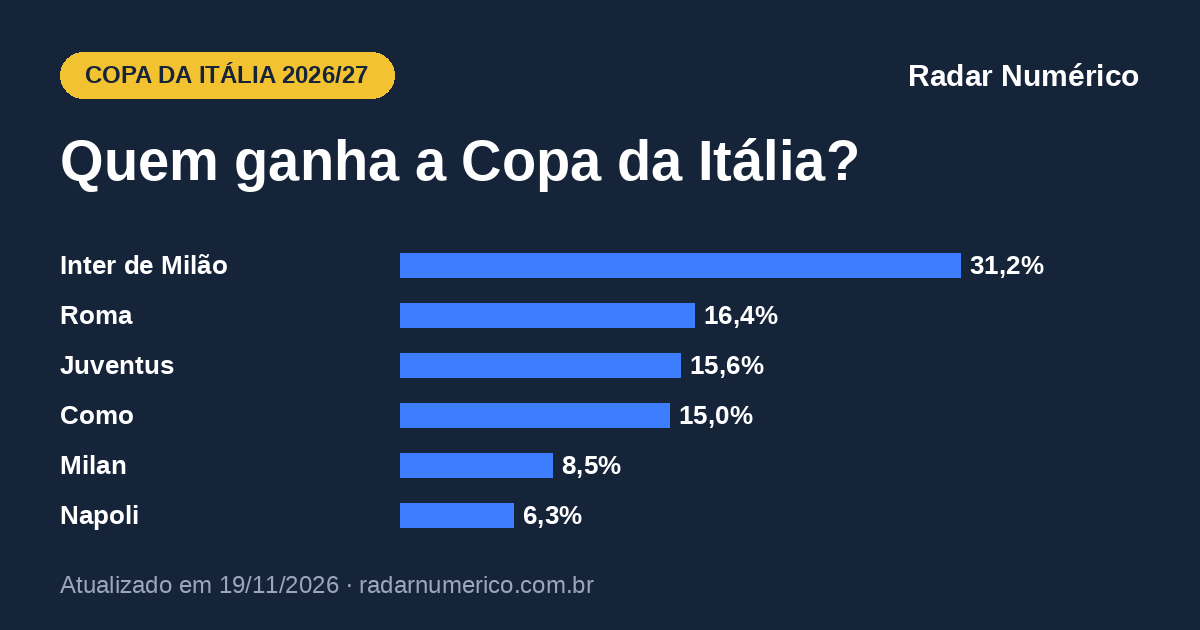
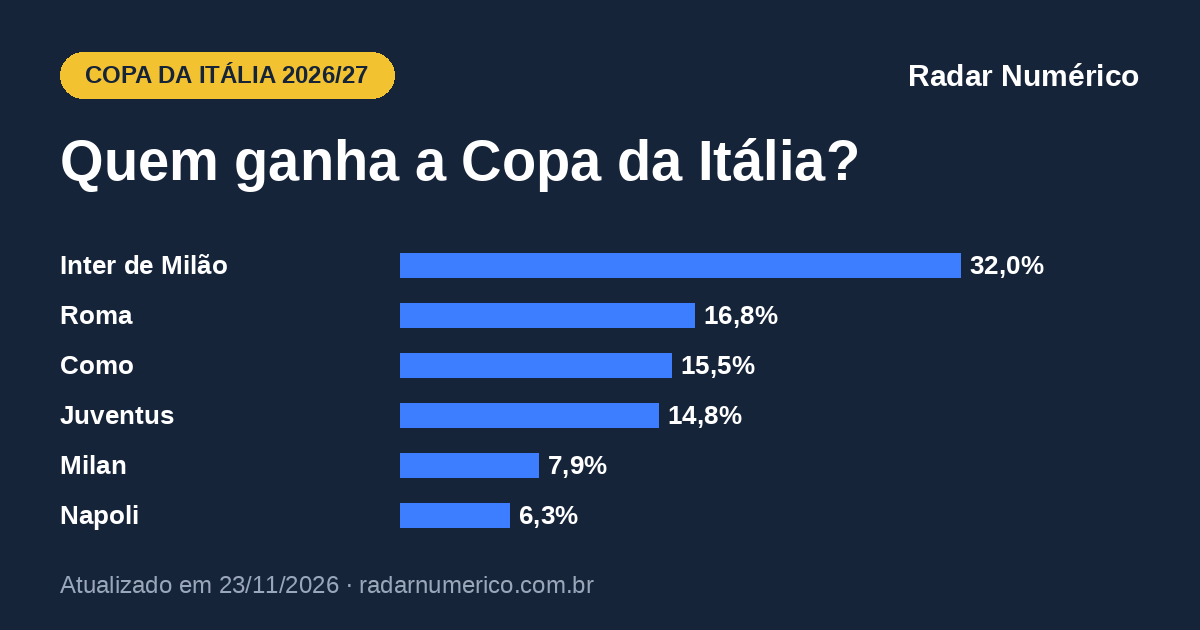
Ranking, ligas e copas europeias: atualização semanal 2026-11-23 - futebol/copa-da-italia
Claude-Session: https://claude.ai/code/session_014c9M3oryqlsr8hzscwb7oa

diff --git a/futebol/copa-da-italia/index.html b/futebol/copa-da-italia/index.html
@@ -13,11 +13,11 @@
 <meta property="og:title" content="Copa da Itália 2026/27: chances de título de cada time">
 <meta property="og:description" content="Probabilidades da Copa da Itália 2026/27: chance de cada time chegar às quartas, à semifinal, à final e de ser campeão.">
 <meta property="og:url" content="https://radarnumerico.com.br/futebol/copa-da-italia/">
-<meta property="og:image" content="https://radarnumerico.com.br/futebol/copa-da-italia/og.png?v=202611190848">
+<meta property="og:image" content="https://radarnumerico.com.br/futebol/copa-da-italia/og.png?v=202611230848">
 <meta property="og:image:width" content="1200">
 <meta property="og:image:height" content="630">
 <meta name="twitter:card" content="summary_large_image">
-<script type="application/ld+json">{"@context": "https://schema.org", "@graph": [{"@type": "WebPage", "@id": "https://radarnumerico.com.br/futebol/copa-da-italia/", "url": "https://radarnumerico.com.br/futebol/copa-da-italia/", "name": "Copa da Itália 2026/27: chances de título de cada time", "description": "Probabilidades da Copa da Itália 2026/27: chance de cada time chegar às quartas, à semifinal, à final e de ser campeão.", "inLanguage": "pt-BR", "dateModified": "2026-11-19T08:48:00-03:00", "isPartOf": {"@type": "WebSite", "name": "Radar Numérico", "url": "https://radarnumerico.com.br/"}, "about": {"@type": "Thing", "name": "Copa da Itália 2026/27"}}, {"@type": "BreadcrumbList", "itemListElement": [{"@type": "ListItem", "position": 1, "name": "Radar Numérico", "item": "https://radarnumerico.com.br/"}, {"@type": "ListItem", "position": 2, "name": "Copa da Itália 2026/27: probabilidades", "item": "https://radarnumerico.com.br/futebol/copa-da-italia/"}]}]}</script>
+<script type="application/ld+json">{"@context": "https://schema.org", "@graph": [{"@type": "WebPage", "@id": "https://radarnumerico.com.br/futebol/copa-da-italia/", "url": "https://radarnumerico.com.br/futebol/copa-da-italia/", "name": "Copa da Itália 2026/27: chances de título de cada time", "description": "Probabilidades da Copa da Itália 2026/27: chance de cada time chegar às quartas, à semifinal, à final e de ser campeão.", "inLanguage": "pt-BR", "dateModified": "2026-11-23T08:48:00-03:00", "isPartOf": {"@type": "WebSite", "name": "Radar Numérico", "url": "https://radarnumerico.com.br/"}, "about": {"@type": "Thing", "name": "Copa da Itália 2026/27"}}, {"@type": "BreadcrumbList", "itemListElement": [{"@type": "ListItem", "position": 1, "name": "Radar Numérico", "item": "https://radarnumerico.com.br/"}, {"@type": "ListItem", "position": 2, "name": "Copa da Itália 2026/27: probabilidades", "item": "https://radarnumerico.com.br/futebol/copa-da-italia/"}]}]}</script>
 <link rel="icon" type="image/png" href="/favicon.png">
 <link rel="apple-touch-icon" href="/apple-touch-icon.png">
 <link rel="preconnect" href="https://fonts.googleapis.com">
@@ -441,8 +441,8 @@ table.mzf td.bc{color:#fff}
 <header class="pg">
   <div class="kicker">Futebol · Itália</div>
   <h1>Copa da Itália 2026/27: chances de título de cada time</h1>
-  <div class="selo" id="selo"><span>Atualizado em <b>19/11/2026 às 08h48</b></span><span>fase atual: <b>Oitavas</b></span><span>16 times vivos</span></div>
-  <p class="lede">O favorito ao título da Copa da Itália é o <b>Inter de Milão</b>, com 31,2%, seguido por Roma (16,4%) e Juventus (15,6%). Calculamos, para os 16 times vivos, a chance de chegar a cada fase, simulando os jogos já marcados e o sorteio das fases seguintes 20 mil vezes. O campeão ganha vaga na Liga Europa.</p>
+  <div class="selo" id="selo"><span>Atualizado em <b>23/11/2026 às 08h48</b></span><span>fase atual: <b>Oitavas</b></span><span>16 times vivos</span></div>
+  <p class="lede">O favorito ao título da Copa da Itália é o <b>Inter de Milão</b>, com 32,0%, seguido por Roma (16,8%) e Como (15,5%). Calculamos, para os 16 times vivos, a chance de chegar a cada fase, simulando os jogos já marcados e o sorteio das fases seguintes 20 mil vezes. O campeão ganha vaga na Liga Europa.</p>
 </header>
 
 <section class="g" id="s-trilha">
@@ -500,7 +500,7 @@ table.mzf td.bc{color:#fff}
 
 <div class="metod">
   <p class="marca">Radar Numérico</p>
-  <p id="rodape">Probabilidades da Copa da Itália 2026/27 atualizadas em 19/11/2026 às 08h48.</p>
+  <p id="rodape">Probabilidades da Copa da Itália 2026/27 atualizadas em 23/11/2026 às 08h48.</p>
   <p>Como calculamos: um algoritmo desenvolvido pelo economista Augusto Pellegrini estima a força de cada time a partir das cotações de mercado de todos os seus jogos recentes, em todas as competições. Simulamos a copa 20 mil vezes: os jogos já marcados e, depois, o sorteio de cada fase. Empate em jogo único vai à prorrogação e aos pênaltis. Fonte: Radar Numérico.</p>
 </div>
 </main>
@@ -509,7 +509,7 @@ table.mzf td.bc{color:#fff}
 <div id="tip" role="tooltip"></div>
 <div id="toast" role="status"></div>
 <script>
-const D = {"slug":"copa-da-italia","nome":"Copa da Itália","gerado_em":"2026-11-19T08:48","tams":[8,4,2,1],"rot":["Quartas","Semifinal","Final","Campeão"],"atual_rot":"Oitavas","cai_antes":"Cai nas oitavas","n_vivos":16,"times":{"Udinese":{"id":"3202","fases":[0.1844,0.0493,0.0043,0.0003],"campeao":0.0003,"forca":43.8,"cab":false},"Verona":{"id":"3204","fases":[0.0759,0.0121,0.0013,0.0001],"campeao":0.0001,"forca":39.0,"cab":false},"Bologna":{"id":"3205","fases":[0.8384,0.2119,0.0491,0.0162],"campeao":0.0162,"forca":50.9,"cab":false},"Como":{"id":"3280","fases":[0.9093,0.541,0.2732,0.1502],"campeao":0.1502,"forca":61.8,"cab":false},"Cremonese":{"id":"3281","fases":[0.0907,0.0197,0.0019,0.0003],"campeao":0.0003,"forca":41.9,"cab":false},"Monza":{"id":"3288","fases":[0.115,0.0221,0.0019,0.0003],"campeao":0.0003,"forca":42.0,"cab":false},"Palermo":{"id":"1248","fases":[0.1616,0.0169,0.0007,0.0001],"campeao":0.0001,"forca":37.6,"cab":false},"Atalanta":{"id":"3180","fases":[0.8156,0.4014,0.1288,0.0434],"campeao":0.0434,"forca":55.3,"cab":false},"Fiorentina":{"id":"3184","fases":[0.2654,0.1221,0.0265,0.007],"campeao":0.007,"forca":51.1,"cab":false},"Genoa":{"id":"3186","fases":[0.0839,0.0347,0.0042,0.0008],"campeao":0.0008,"forca":44.7,"cab":false},"Inter de Milão":{"id":"3187","fases":[0.9161,0.7365,0.492,0.3119],"campeao":0.3119,"forca":65.4,"cab":false},"Juventus":{"id":"3190","fases":[0.8652,0.46,0.3237,0.1562],"campeao":0.1562,"forca":61.4,"cab":false},"Milan":{"id":"3193","fases":[0.885,0.4173,0.1771,0.0848],"campeao":0.0848,"forca":59.0,"cab":false},"Napoli":{"id":"3194","fases":[0.7346,0.4271,0.1623,0.0631],"campeao":0.0631,"forca":57.3,"cab":false},"Roma":{"id":"3197","fases":[0.9242,0.4995,0.3471,0.164],"campeao":0.164,"forca":61.3,"cab":false},"Sassuolo":{"id":"3199","fases":[0.1348,0.0284,0.006,0.0013],"campeao":0.0013,"forca":45.8,"cab":false}},"ordem":["Inter de Milão","Roma","Juventus","Como","Milan","Napoli","Atalanta","Bologna","Fiorentina","Sassuolo","Genoa","Udinese","Monza","Cremonese","Verona","Palermo"],"confrontos":[{"m":"Inter de Milão","v":"Genoa","pm":0.9161,"vm":0.7462,"e":0.1832,"vv":0.0706},{"m":"Bologna","v":"Palermo","pm":0.8384,"vm":0.652,"e":0.2256,"vv":0.1225},{"m":"Milan","v":"Monza","pm":0.885,"vm":0.7014,"e":0.2048,"vv":0.0938},{"m":"Como","v":"Cremonese","pm":0.9093,"vm":0.7372,"e":0.1877,"vv":0.075},{"m":"Roma","v":"Verona","pm":0.9242,"vm":0.7633,"e":0.1743,"vv":0.0624},{"m":"Juventus","v":"Sassuolo","pm":0.8652,"vm":0.6835,"e":0.2127,"vv":0.1039},{"m":"Atalanta","v":"Udinese","pm":0.8156,"vm":0.6259,"e":0.2353,"vv":0.1388},{"m":"Napoli","v":"Fiorentina","pm":0.7346,"vm":0.5425,"e":0.2608,"vv":0.1967}],"finais":[{"a":"Inter de Milão","b":"Roma","p":0.1704,"pa":0.5929},{"a":"Inter de Milão","b":"Juventus","p":0.16,"pa":0.5928},{"a":"Roma","b":"Como","p":0.0943,"pa":0.4783},{"a":"Juventus","b":"Como","p":0.0874,"pa":0.4991},{"a":"Inter de Milão","b":"Napoli","p":0.0789,"pa":0.6806},{"a":"Atalanta","b":"Inter de Milão","p":0.0638,"pa":0.2627}],"outros":0.0,"matriz":{"tipo":"lados","linhas":[["Inter de Milão",0.492],["Como",0.2732],["Milan",0.1771],["Bologna",0.0491],["Genoa",0.0042],["Cremonese",0.0019]],"colunas":[["Roma",0.3471],["Juventus",0.3237],["Napoli",0.1623],["Atalanta",0.1288],["Fiorentina",0.0265],["Sassuolo",0.006]],"cel":[[0.1704,0.16,0.0789,0.0638,0.0131,0.003],[0.0943,0.0874,0.0455,0.036,0.0074,0.0012],[0.0634,0.0566,0.0282,0.022,0.0046,0.0014],[0.0167,0.0159,0.0086,0.0061,0.0013,0.0003],[0.0011,0.0018,0.0005,0.0006,0.0,0.0],[0.0006,0.0009,0.0002,0.0001,0.0,0.0]]},"chave":{"fases":["Oitavas","Quartas","Semifinal","Final"],"jogos":[["Inter de Milão","Genoa"],["Bologna","Palermo"],["Milan","Monza"],["Como","Cremonese"],["Roma","Verona"],["Juventus","Sassuolo"],["Atalanta","Udinese"],["Napoli","Fiorentina"]],"atual":true,"p":{"vagas":[[[[["Inter de Milão",0.9161],["Genoa",0.0839]],[["Bologna",0.8384],["Palermo",0.1616]]],[[["Milan",0.885],["Monza",0.115]],[["Como",0.9093],["Cremonese",0.0907]]],[[["Roma",0.9242],["Verona",0.0759]],[["Juventus",0.8652],["Sassuolo",0.1348]]],[[["Atalanta",0.8156],["Udinese",0.1844]],[["Napoli",0.7346],["Fiorentina",0.2654]]]],[[[["Inter de Milão",0.7365],["Bologna",0.2119],["Genoa",0.0347],["Palermo",0.0169]],[["Como",0.541],["Milan",0.4173],["Monza",0.0221],["Cremonese",0.0197]]],[[["Roma",0.4995],["Juventus",0.46],["Sassuolo",0.0284],["Verona",0.0121]],[["Napoli",0.4271],["Atalanta",0.4014],["Fiorentina",0.1221],["Udinese",0.0493]]]],[[[["Inter de Milão",0.492],["Como",0.2732],["Milan",0.1771],["Bologna",0.0491],["Genoa",0.0042],["Cremonese",0.0019],["Monza",0.0019],["Palermo",0.0007]],[["Roma",0.3471],["Juventus",0.3237],["Napoli",0.1623],["Atalanta",0.1288],["Fiorentina",0.0265],["Sassuolo",0.006],["Udinese",0.0043],["Verona",0.0013]]]]],"passa":[[0.9161,0.0839],[0.8384,0.1616],[0.885,0.115],[0.9093,0.0907],[0.9242,0.0759],[0.8652,0.1348],[0.8156,0.1844],[0.7346,0.2654]],"campeao":[["Inter de Milão",0.3119],["Roma",0.164],["Juventus",0.1562],["Como",0.1502],["Milan",0.0848],["Napoli",0.0631],["Atalanta",0.0434],["Bologna",0.0162],["Fiorentina",0.007],["Sassuolo",0.0013],["Genoa",0.0008],["Cremonese",0.0003],["Monza",0.0003],["Udinese",0.0003],["Palermo",0.0001],["Verona",0.0001]]},"fixa":true},"SIGLA":{"Udinese":"UDI","Verona":"VER","Bologna":"BOL","Como":"COM","Cremonese":"CRE","Monza":"MON","Palermo":"PAL","Atalanta":"ATA","Fiorentina":"FIO","Genoa":"GEN","Inter de Milão":"INT","Juventus":"JUV","Milan":"MIL","Napoli":"NAP","Roma":"ROM","Sassuolo":"SAS"},"SLUG":{"Udinese":"udinese","Verona":"verona","Bologna":"bologna","Como":"como","Cremonese":"cremonese","Monza":"ssd-monza","Palermo":"palermo","Atalanta":"atalanta","Fiorentina":"fiorentina","Genoa":"genoa","Inter de Milão":"inter-de-milao","Juventus":"juventus","Milan":"milan","Napoli":"napoli","Roma":"roma","Sassuolo":"sassuolo"},"CORES":{"Udinese":["#3EA6DD","#FFFFFF"],"Verona":["#5B2C83","#FFFFFF"],"Bologna":["#111111","#FFFFFF"],"Como":["#1B4D9B","#FFFFFF"],"Cremonese":["#5B2C83","#FFFFFF"],"Monza":["#3EA6DD","#FFFFFF"],"Palermo":["#16243A","#FFFFFF"],"Atalanta":["#111111","#FFFFFF"],"Fiorentina":["#5B2C83","#FFFFFF"],"Genoa":["#16243A","#FFFFFF"],"Inter de Milão":["#0068A8","#111111"],"Juventus":["#E35205","#FFFFFF"],"Milan":["#3EA6DD","#FFFFFF"],"Napoli":["#12A0D7","#FFFFFF"],"Roma":["#8E1F2F","#F0BC42"],"Sassuolo":["#3EA6DD","#FFFFFF"]},"vaga":"Liga Europa","liga":"serie-a-italiana","liga_nome":"Série A italiana","nota_fase":"Os oito primeiros da Série A de 2025/26 entram nas oitavas. Jogos únicos até as quartas; semifinal em ida e volta.","final":"Final em Roma, no Estádio Olímpico.","ultimo_jogo":{"data":"2026-09-15","hora":"16:00","m":"Fiorentina","v":"Pisa","gm":3,"gv":0,"rodada":"Round Of 32"}};
+const D = {"slug":"copa-da-italia","nome":"Copa da Itália","gerado_em":"2026-11-23T08:48","tams":[8,4,2,1],"rot":["Quartas","Semifinal","Final","Campeão"],"atual_rot":"Oitavas","cai_antes":"Cai nas oitavas","n_vivos":16,"times":{"Udinese":{"id":"3202","fases":[0.1911,0.0515,0.0053,0.0008],"campeao":0.0008,"forca":44.4,"cab":false},"Verona":{"id":"3204","fases":[0.0752,0.012,0.0012,0.0001],"campeao":0.0001,"forca":39.5,"cab":false},"Bologna":{"id":"3205","fases":[0.8417,0.2088,0.0497,0.0155],"campeao":0.0155,"forca":51.3,"cab":false},"Como":{"id":"3280","fases":[0.9099,0.5516,0.2748,0.1551],"campeao":0.1551,"forca":62.2,"cab":false},"Cremonese":{"id":"3281","fases":[0.0901,0.0214,0.0015,0.0003],"campeao":0.0003,"forca":42.3,"cab":false},"Monza":{"id":"3288","fases":[0.1192,0.0214,0.0019,0.0002],"campeao":0.0002,"forca":42.4,"cab":false},"Palermo":{"id":"1248","fases":[0.1583,0.016,0.0008,0.0002],"campeao":0.0002,"forca":37.8,"cab":false},"Atalanta":{"id":"3180","fases":[0.8089,0.3993,0.1239,0.0411],"campeao":0.0411,"forca":55.3,"cab":false},"Fiorentina":{"id":"3184","fases":[0.2669,0.1227,0.0276,0.0066],"campeao":0.0066,"forca":51.4,"cab":false},"Genoa":{"id":"3186","fases":[0.0856,0.0342,0.0043,0.0008],"campeao":0.0008,"forca":45.3,"cab":false},"Inter de Milão":{"id":"3187","fases":[0.9144,0.7409,0.502,0.3199],"campeao":0.3199,"forca":66.0,"cab":false},"Juventus":{"id":"3190","fases":[0.8687,0.4546,0.3164,0.1479],"campeao":0.1479,"forca":61.5,"cab":false},"Milan":{"id":"3193","fases":[0.8808,0.4057,0.1649,0.0794],"campeao":0.0794,"forca":59.0,"cab":false},"Napoli":{"id":"3194","fases":[0.7331,0.4264,0.1623,0.0628],"campeao":0.0628,"forca":57.4,"cab":false},"Roma":{"id":"3197","fases":[0.9248,0.5066,0.3579,0.1682],"campeao":0.1682,"forca":61.7,"cab":false},"Sassuolo":{"id":"3199","fases":[0.1313,0.0268,0.0054,0.0012],"campeao":0.0012,"forca":45.8,"cab":false}},"ordem":["Inter de Milão","Roma","Como","Juventus","Milan","Napoli","Atalanta","Bologna","Fiorentina","Sassuolo","Genoa","Udinese","Cremonese","Monza","Palermo","Verona"],"confrontos":[{"m":"Inter de Milão","v":"Genoa","pm":0.9144,"vm":0.7474,"e":0.1825,"vv":0.0701},{"m":"Bologna","v":"Palermo","pm":0.8417,"vm":0.6551,"e":0.2242,"vv":0.1207},{"m":"Milan","v":"Monza","pm":0.8808,"vm":0.6973,"e":0.2065,"vv":0.0962},{"m":"Como","v":"Cremonese","pm":0.9099,"vm":0.7376,"e":0.1875,"vv":0.0749},{"m":"Roma","v":"Verona","pm":0.9248,"vm":0.764,"e":0.1738,"vv":0.0622},{"m":"Juventus","v":"Sassuolo","pm":0.8687,"vm":0.6862,"e":0.2114,"vv":0.1024},{"m":"Atalanta","v":"Udinese","pm":0.8089,"vm":0.6179,"e":0.238,"vv":0.1441},{"m":"Napoli","v":"Fiorentina","pm":0.7331,"vm":0.5415,"e":0.2609,"vv":0.1976}],"finais":[{"a":"Inter de Milão","b":"Roma","p":0.1804,"pa":0.5961},{"a":"Inter de Milão","b":"Juventus","p":0.1604,"pa":0.5982},{"a":"Roma","b":"Como","p":0.0964,"pa":0.4717},{"a":"Juventus","b":"Como","p":0.0861,"pa":0.4791},{"a":"Inter de Milão","b":"Napoli","p":0.079,"pa":0.6873},{"a":"Atalanta","b":"Inter de Milão","p":0.0625,"pa":0.2656}],"outros":0.0,"matriz":{"tipo":"lados","linhas":[["Inter de Milão",0.502],["Como",0.2748],["Milan",0.1649],["Bologna",0.0497],["Genoa",0.0043],["Monza",0.0019]],"colunas":[["Roma",0.3579],["Juventus",0.3164],["Napoli",0.1623],["Atalanta",0.1239],["Fiorentina",0.0276],["Sassuolo",0.0054]],"cel":[[0.1804,0.1604,0.079,0.0625,0.0142,0.0027],[0.0964,0.0861,0.0466,0.0347,0.0076,0.0013],[0.0604,0.0506,0.0273,0.02,0.0043,0.0011],[0.0173,0.0166,0.0081,0.0057,0.0013,0.0003],[0.0019,0.0013,0.0008,0.0004,0.0,0.0],[0.0007,0.0006,0.0003,0.0003,0.0,0.0]]},"chave":{"fases":["Oitavas","Quartas","Semifinal","Final"],"jogos":[["Inter de Milão","Genoa"],["Bologna","Palermo"],["Milan","Monza"],["Como","Cremonese"],["Roma","Verona"],["Juventus","Sassuolo"],["Atalanta","Udinese"],["Napoli","Fiorentina"]],"atual":true,"p":{"vagas":[[[[["Inter de Milão",0.9144],["Genoa",0.0856]],[["Bologna",0.8417],["Palermo",0.1583]]],[[["Milan",0.8808],["Monza",0.1192]],[["Como",0.9099],["Cremonese",0.0901]]],[[["Roma",0.9248],["Verona",0.0752]],[["Juventus",0.8687],["Sassuolo",0.1313]]],[[["Atalanta",0.8089],["Udinese",0.1911]],[["Napoli",0.7331],["Fiorentina",0.2669]]]],[[[["Inter de Milão",0.7409],["Bologna",0.2088],["Genoa",0.0342],["Palermo",0.016]],[["Como",0.5516],["Milan",0.4057],["Cremonese",0.0214],["Monza",0.0214]]],[[["Roma",0.5066],["Juventus",0.4546],["Sassuolo",0.0268],["Verona",0.012]],[["Napoli",0.4264],["Atalanta",0.3993],["Fiorentina",0.1227],["Udinese",0.0515]]]],[[[["Inter de Milão",0.502],["Como",0.2748],["Milan",0.1649],["Bologna",0.0497],["Genoa",0.0043],["Monza",0.0019],["Cremonese",0.0015],["Palermo",0.0008]],[["Roma",0.3579],["Juventus",0.3164],["Napoli",0.1623],["Atalanta",0.1239],["Fiorentina",0.0276],["Sassuolo",0.0054],["Udinese",0.0053],["Verona",0.0012]]]]],"passa":[[0.9144,0.0856],[0.8417,0.1583],[0.8808,0.1192],[0.9099,0.0901],[0.9248,0.0752],[0.8687,0.1313],[0.8089,0.1911],[0.7331,0.2669]],"campeao":[["Inter de Milão",0.3199],["Roma",0.1682],["Como",0.1551],["Juventus",0.1479],["Milan",0.0794],["Napoli",0.0628],["Atalanta",0.0411],["Bologna",0.0155],["Fiorentina",0.0066],["Sassuolo",0.0012],["Udinese",0.0008],["Genoa",0.0008],["Cremonese",0.0003],["Monza",0.0002],["Palermo",0.0002],["Verona",0.0001]]},"fixa":true},"SIGLA":{"Udinese":"UDI","Verona":"VER","Bologna":"BOL","Como":"COM","Cremonese":"CRE","Monza":"MON","Palermo":"PAL","Atalanta":"ATA","Fiorentina":"FIO","Genoa":"GEN","Inter de Milão":"INT","Juventus":"JUV","Milan":"MIL","Napoli":"NAP","Roma":"ROM","Sassuolo":"SAS"},"SLUG":{"Udinese":"udinese","Verona":"verona","Bologna":"bologna","Como":"como","Cremonese":"cremonese","Monza":"ssd-monza","Palermo":"palermo","Atalanta":"atalanta","Fiorentina":"fiorentina","Genoa":"genoa","Inter de Milão":"inter-de-milao","Juventus":"juventus","Milan":"milan","Napoli":"napoli","Roma":"roma","Sassuolo":"sassuolo"},"CORES":{"Udinese":["#3EA6DD","#FFFFFF"],"Verona":["#5B2C83","#FFFFFF"],"Bologna":["#111111","#FFFFFF"],"Como":["#1B4D9B","#FFFFFF"],"Cremonese":["#5B2C83","#FFFFFF"],"Monza":["#3EA6DD","#FFFFFF"],"Palermo":["#16243A","#FFFFFF"],"Atalanta":["#111111","#FFFFFF"],"Fiorentina":["#5B2C83","#FFFFFF"],"Genoa":["#16243A","#FFFFFF"],"Inter de Milão":["#0068A8","#111111"],"Juventus":["#E35205","#FFFFFF"],"Milan":["#3EA6DD","#FFFFFF"],"Napoli":["#12A0D7","#FFFFFF"],"Roma":["#8E1F2F","#F0BC42"],"Sassuolo":["#3EA6DD","#FFFFFF"]},"vaga":"Liga Europa","liga":"serie-a-italiana","liga_nome":"Série A italiana","nota_fase":"Os oito primeiros da Série A de 2025/26 entram nas oitavas. Jogos únicos até as quartas; semifinal em ida e volta.","final":"Final em Roma, no Estádio Olímpico.","ultimo_jogo":{"data":"2026-09-15","hora":"16:00","m":"Fiorentina","v":"Pisa","gm":3,"gv":0,"rodada":"Round Of 32"}};
 const T = D.times, ORD = D.ordem;
 const $ = s => document.querySelector(s);
 const SLUG = D.SLUG, SIGLA = D.SIGLA, CORES = D.CORES, ESC_DIR = 'escudos/';
